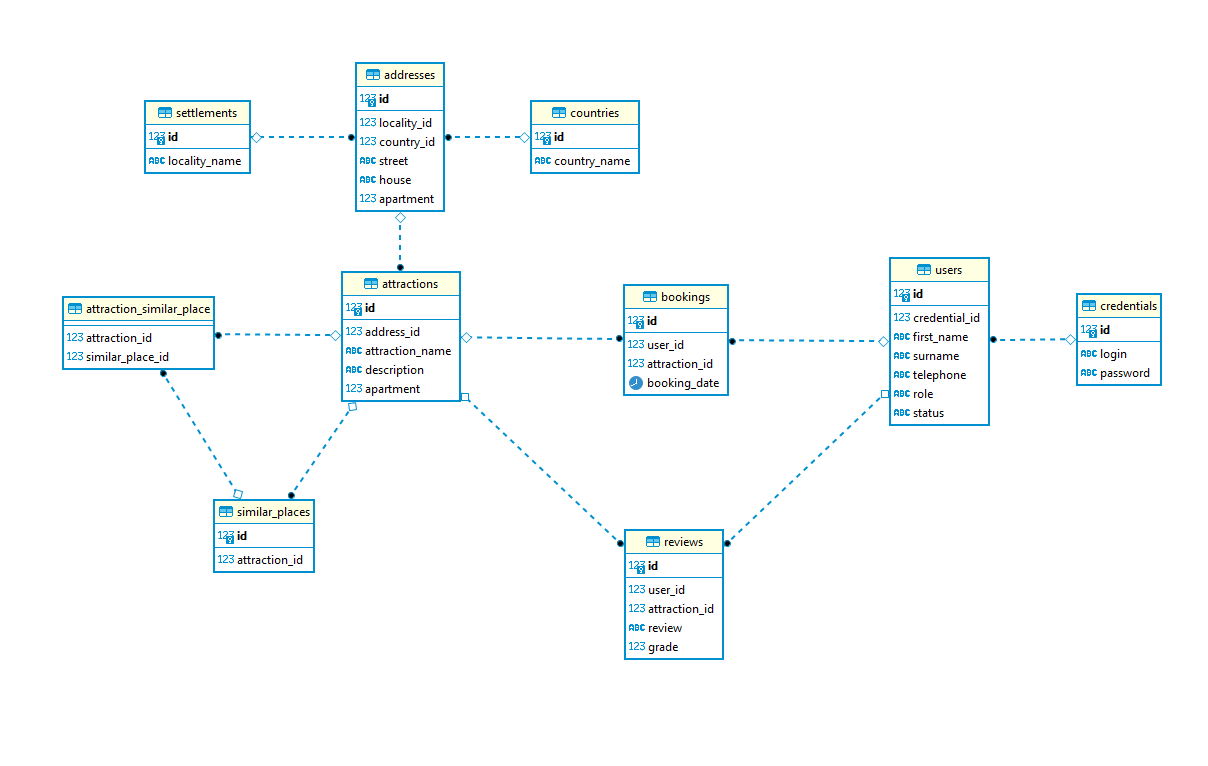
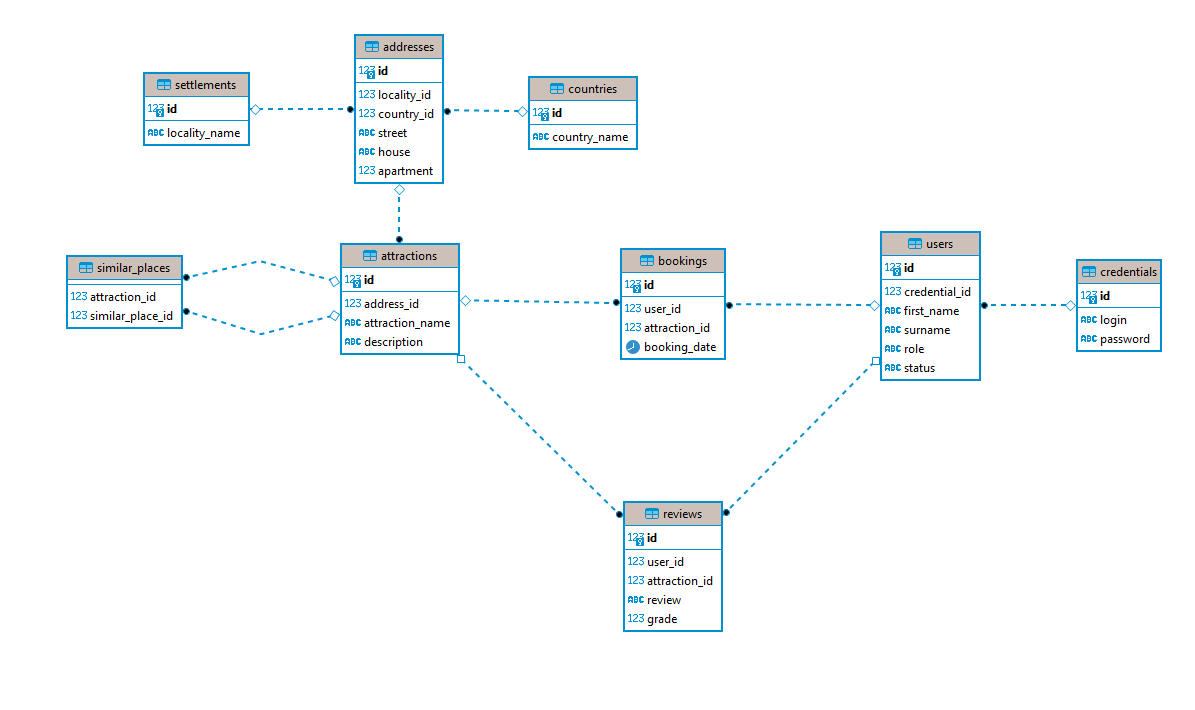
add orm

diff --git a/src/main/java/eu/morozik/historicalplaces/model/Attraction.java b/src/main/java/eu/morozik/historicalplaces/model/Attraction.java
@@ -21,15 +21,20 @@ public class Attraction extends BaseEntity {
     @Column(name = "description")
     private String description;
 
-    @OneToOne
+    @OneToOne(fetch = FetchType.LAZY, cascade = CascadeType.ALL)
+    @JoinColumn(name = "address_id", referencedColumnName = "id")
     private Address address;
 
-    @OneToMany
+    @OneToMany(fetch = FetchType.LAZY, mappedBy = "attraction", cascade = CascadeType.ALL, orphanRemoval = true)
     private Set<Booking> bookings = new HashSet<>();
 
-    @OneToMany
+    @OneToMany(fetch = FetchType.LAZY, mappedBy = "attraction", cascade = CascadeType.ALL, orphanRemoval = true)
     private Set<Review> reviews = new HashSet<>();
 
-    @ManyToMany
-    private Set<SimilarPlace> similarPlaces = new HashSet<>();
+    @ManyToMany(fetch = FetchType.LAZY, cascade = CascadeType.ALL)
+    @JoinTable(name = "similar_places",
+            joinColumns = @JoinColumn(name = "attraction_id"),
+            inverseJoinColumns = @JoinColumn(name = "similar_place_id")
+    )
+    private Set<Attraction> attractions = new HashSet<>();
 }

diff --git a/src/main/java/eu/morozik/historicalplaces/model/User.java b/src/main/java/eu/morozik/historicalplaces/model/User.java
@@ -23,22 +23,20 @@ public class User extends BaseEntity {
     @Column(name = "surname")
     private String surname;
 
-    @Column(name = "telephone")
-    private String telephone;
-
     @Enumerated(value = EnumType.STRING)
     private Role role;
 
     @Enumerated(value = EnumType.STRING)
     private Status status;
 
-    @OneToOne
+    @OneToOne(fetch = FetchType.LAZY, cascade = CascadeType.ALL)
+    @JoinColumn(name = "credential_id", referencedColumnName = "id")
     private Credential credential;
 
-    @OneToMany
+    @OneToMany(fetch = FetchType.LAZY, mappedBy = "user", cascade = CascadeType.ALL, orphanRemoval = true)
     private Set<Booking> bookings = new HashSet<>();
 
-    @OneToMany
+    @OneToMany(fetch = FetchType.LAZY, mappedBy = "user", cascade = CascadeType.ALL, orphanRemoval = true)
     private Set<Review> reviews = new HashSet<>();
 
 }

diff --git a/src/main/java/eu/morozik/historicalplaces/model/Credential.java b/src/main/java/eu/morozik/historicalplaces/model/Credential.java
@@ -2,10 +2,7 @@ package eu.morozik.historicalplaces.model;
 
 import lombok.*;
 
-import javax.persistence.Column;
-import javax.persistence.Entity;
-import javax.persistence.OneToOne;
-import javax.persistence.Table;
+import javax.persistence.*;
 
 @Getter
 @Setter
@@ -14,7 +11,7 @@ import javax.persistence.Table;
 @NoArgsConstructor
 @AllArgsConstructor
 @Table(name = "credentials")
-public class Credential extends BaseEntity{
+public class Credential extends BaseEntity {
 
     @Column(name = "login")
     private String login;
@@ -22,6 +19,6 @@ public class Credential extends BaseEntity{
     @Column(name = "password")
     private String password;
 
-    @OneToOne
+    @OneToOne(fetch = FetchType.LAZY, mappedBy = "credential", cascade = CascadeType.ALL)
     private User user;
 }

diff --git a/src/main/java/eu/morozik/historicalplaces/model/Booking.java b/src/main/java/eu/morozik/historicalplaces/model/Booking.java
@@ -2,10 +2,7 @@ package eu.morozik.historicalplaces.model;
 
 import lombok.*;
 
-import javax.persistence.Column;
-import javax.persistence.Entity;
-import javax.persistence.ManyToOne;
-import javax.persistence.Table;
+import javax.persistence.*;
 import java.time.LocalDateTime;
 
 @Getter
@@ -20,9 +17,9 @@ public class Booking extends BaseEntity{
     @Column(name = "booking_date")
     private LocalDateTime bookingData;
 
-    @ManyToOne
+    @ManyToOne(fetch = FetchType.LAZY)
     private User user;
 
-    @ManyToOne
+    @ManyToOne(fetch = FetchType.LAZY)
     private Attraction attraction;
 }

diff --git a/src/main/java/eu/morozik/historicalplaces/model/Settlement.java b/src/main/java/eu/morozik/historicalplaces/model/Settlement.java
@@ -2,10 +2,7 @@ package eu.morozik.historicalplaces.model;
 
 import lombok.*;
 
-import javax.persistence.Column;
-import javax.persistence.Entity;
-import javax.persistence.OneToMany;
-import javax.persistence.Table;
+import javax.persistence.*;
 import java.util.HashSet;
 import java.util.Set;
 
@@ -21,6 +18,6 @@ public class Settlement extends BaseEntity{
     @Column(name = "locality_name")
     private String localityName;
 
-    @OneToMany
+    @OneToMany(mappedBy = "settlement", cascade = CascadeType.ALL, orphanRemoval = true)
     private Set<Address> addresses= new HashSet<>();
 }

diff --git a/src/main/java/eu/morozik/historicalplaces/model/Review.java b/src/main/java/eu/morozik/historicalplaces/model/Review.java
@@ -2,10 +2,7 @@ package eu.morozik.historicalplaces.model;
 
 import lombok.*;
 
-import javax.persistence.Column;
-import javax.persistence.Entity;
-import javax.persistence.ManyToOne;
-import javax.persistence.Table;
+import javax.persistence.*;
 
 @Getter
 @Setter
@@ -22,9 +19,9 @@ public class Review extends BaseEntity{
     @Column(name = "grade")
     private Long grade;
 
-    @ManyToOne
+    @ManyToOne(fetch = FetchType.LAZY)
     private User user;
 
-    @ManyToOne
+    @ManyToOne(fetch = FetchType.LAZY)
     private Attraction attraction;
 }

diff --git a/src/main/java/eu/morozik/historicalplaces/model/Country.java b/src/main/java/eu/morozik/historicalplaces/model/Country.java
@@ -2,10 +2,7 @@ package eu.morozik.historicalplaces.model;
 
 import lombok.*;
 
-import javax.persistence.Column;
-import javax.persistence.Entity;
-import javax.persistence.OneToMany;
-import javax.persistence.Table;
+import javax.persistence.*;
 import java.util.Set;
 
 @Getter
@@ -20,6 +17,6 @@ public class Country extends BaseEntity{
     @Column(name = "country_name")
     private String countryName;
 
-    @OneToMany
+    @OneToMany(mappedBy = "country", cascade = CascadeType.ALL, orphanRemoval = true)
     private Set<Address> addresses;
 }

diff --git a/src/main/java/eu/morozik/historicalplaces/model/Address.java b/src/main/java/eu/morozik/historicalplaces/model/Address.java
@@ -22,12 +22,12 @@ public class Address extends BaseEntity {
     @Column(name = "apartment")
     private Long apartment;
 
-    @ManyToOne
+    @ManyToOne(fetch = FetchType.LAZY)
     private Country country;
 
-    @ManyToOne
+    @ManyToOne(fetch = FetchType.LAZY)
     private Settlement settlement;
 
-    @OneToOne
+    @OneToOne(fetch = FetchType.LAZY, mappedBy = "address", cascade = CascadeType.ALL)
     private Attraction attraction;
 }
